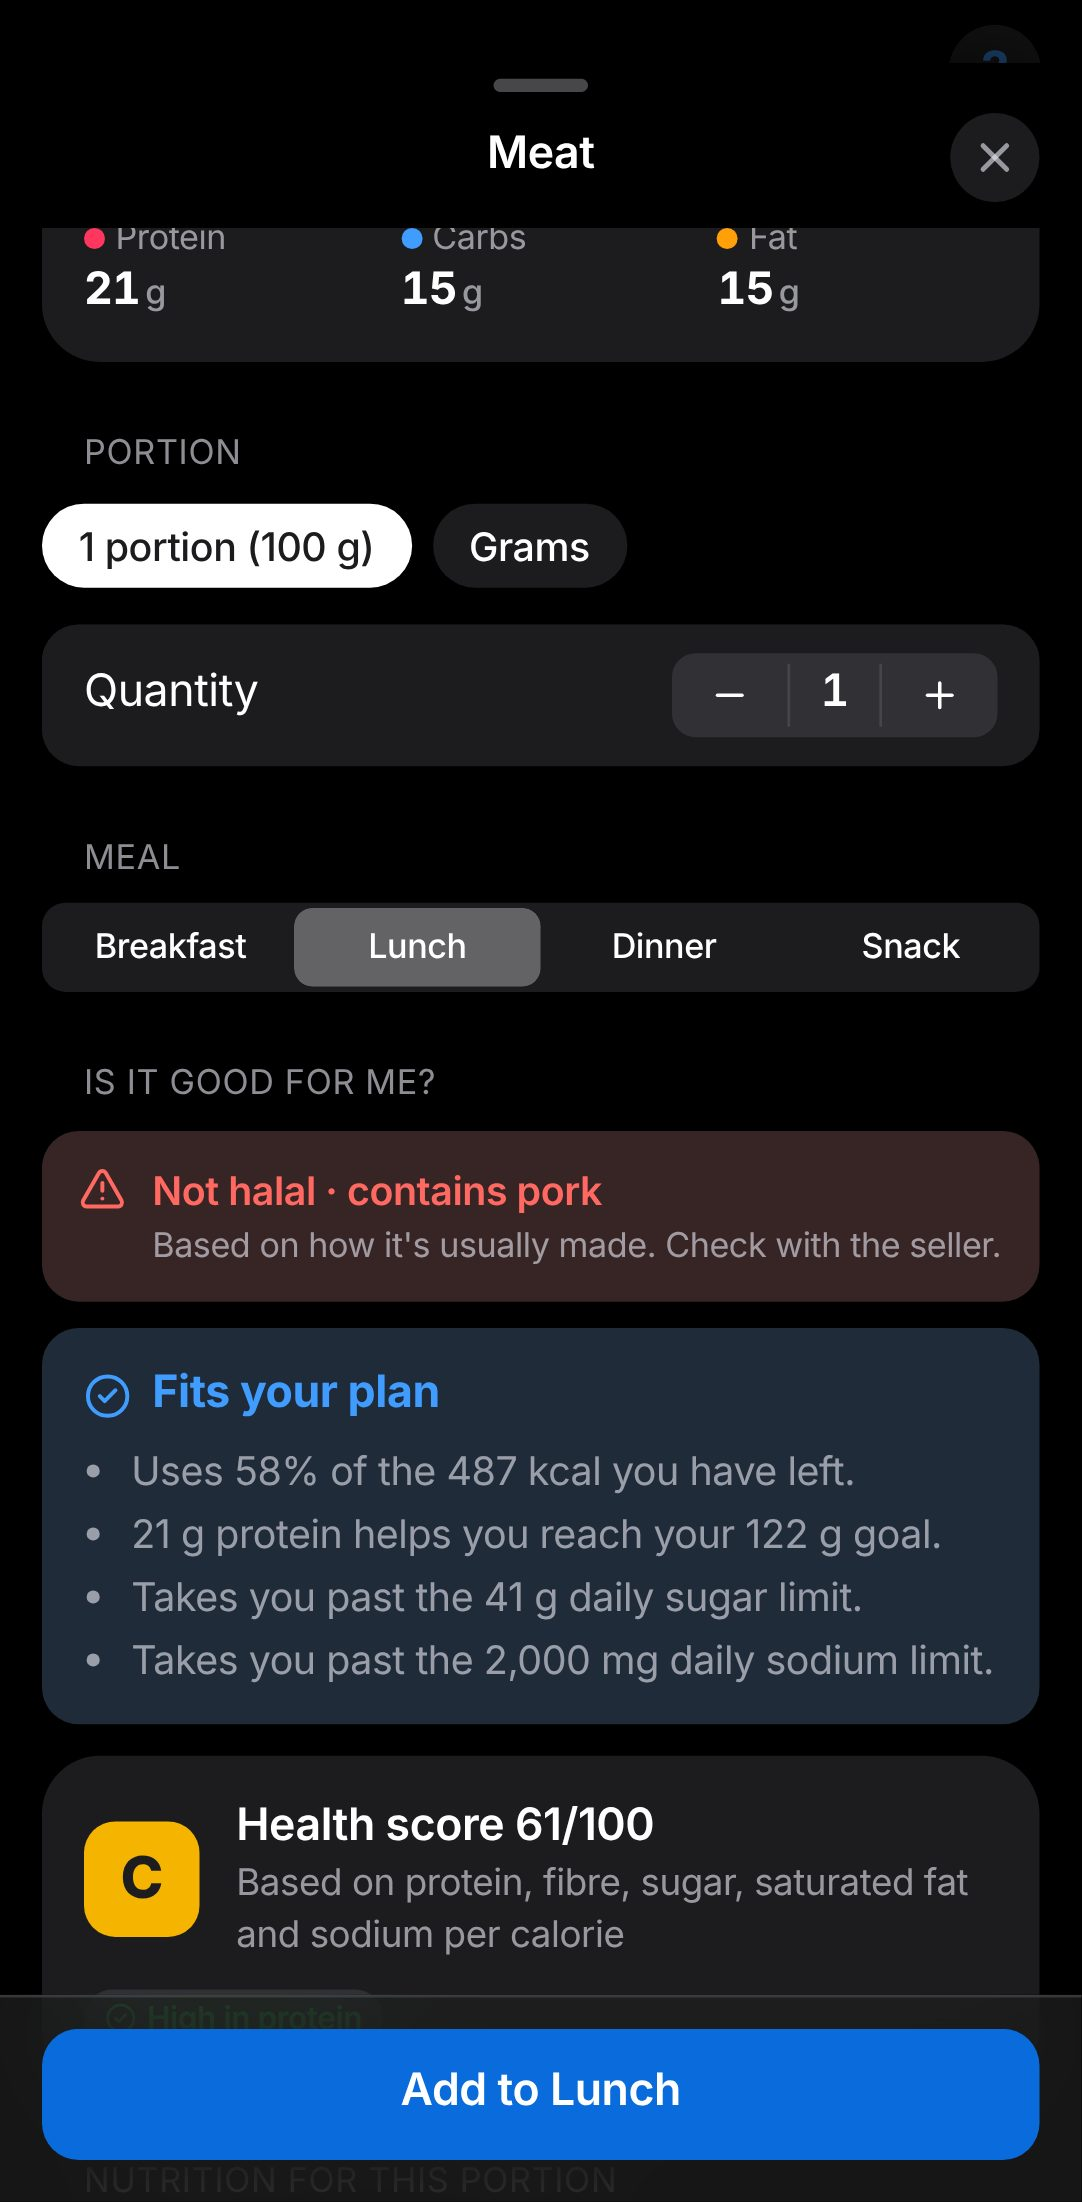
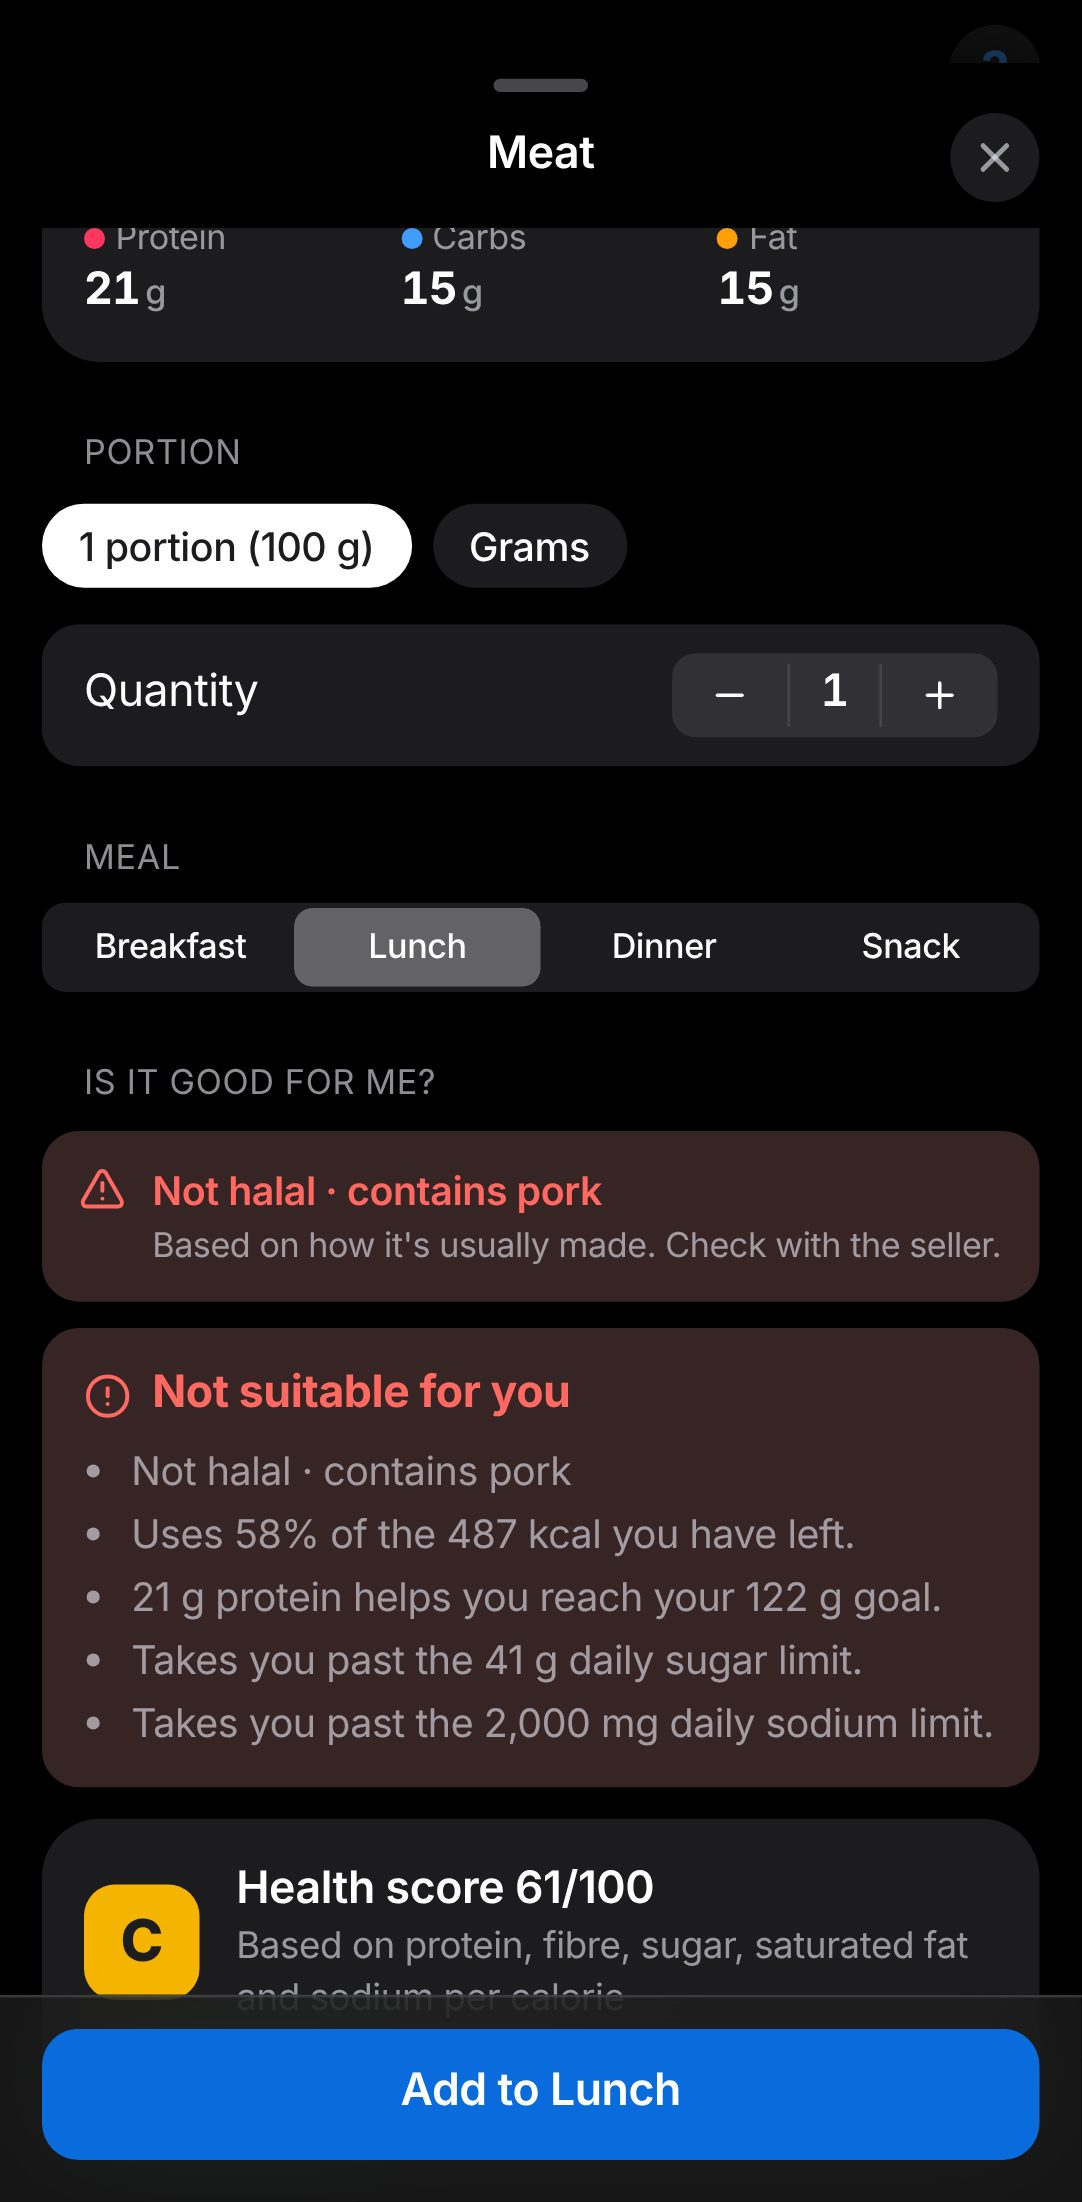
Food verdict agrees with allergy/halal warnings ('Not suitable for you')
Claude-Session: https://claude.ai/code/session_019NBcuk3pD24B8vpD58uY5d

Changed region(s): [[0.0305, 0.6176, 0.976, 0.9264]]

diff --git a/src/components/PhotoSheet.tsx b/src/components/PhotoSheet.tsx
@@ -8,7 +8,7 @@ import type { MealType, Nutrients } from "../lib/types";
 import { useTodayTotals } from "./FoodSheet";
 import { t, useLanguage } from "../i18n";
 import { AvoidCard, HealthCard, Segmented, Sheet, SuitabilityCard, haptic, showToast } from "./ui";
-import { conflicts, nameTags } from "../lib/allergens";
+import { conflicts, nameTags, withConflicts } from "../lib/allergens";
 
 interface Editable extends PhotoItem {
   baseGrams: number;
@@ -114,6 +114,7 @@ export function PhotoSheet({ open, onClose, start }: { open: boolean; onClose: (
   };
 
   const total = sum(items.map(itemNutrients));
+  const photoConflicts = result ? conflicts(new Set(items.flatMap((i) => [...nameTags(`${i.name} ${result.mealName}`)])), profile) : [];
   const tg = targets(profile);
 
   const addAll = () => {
@@ -254,8 +255,8 @@ export function PhotoSheet({ open, onClose, start }: { open: boolean; onClose: (
           {result.notes && <p className="footnote">{result.notes}</p>}
 
           <div className="section-header">{t("Is it good for me?")}</div>
-          <AvoidCard conflicts={conflicts(new Set(items.flatMap((i) => [...nameTags(`${i.name} ${result.mealName}`)])), profile)} />
-          <SuitabilityCard s={suitability(total, tg, eaten, profile.goal)} />
+          <AvoidCard conflicts={photoConflicts} />
+          <SuitabilityCard s={withConflicts(suitability(total, tg, eaten, profile.goal), photoConflicts)} />
           <div className="spacer" />
           <HealthCard report={healthReport(total)} />
 

diff --git a/src/components/FoodSheet.tsx b/src/components/FoodSheet.tsx
@@ -4,7 +4,7 @@ import type { RecipePart } from "../data/dishes";
 import { recipeTotals } from "../data/foods";
 import { FoodPicker } from "./MealBuilder";
 import { t, useLanguage } from "../i18n";
-import { foodConflicts } from "../lib/allergens";
+import { foodConflicts, withConflicts } from "../lib/allergens";
 import { defaultMeal, mealLabel, mealOptions } from "../lib/api";
 import {
   healthReport,
@@ -377,9 +377,7 @@ export function FoodSheet({
 
             <div className="section-header">{t("Is it good for me?")}</div>
             <AvoidCard conflicts={foodConflicts(food, profile)} />
-            <SuitabilityCard
-              s={suitability(n, tg, eaten, profile.goal, isWholeProduce(food))}
-            />
+            <SuitabilityCard s={withConflicts(suitability(n, tg, eaten, profile.goal, isWholeProduce(food)), foodConflicts(food, profile))} />
             <div className="spacer" />
             <HealthCard
               report={healthReport(n, { intrinsicSugar: isWholeProduce(food) })}

diff --git a/src/i18n/dict/core.ts b/src/i18n/dict/core.ts
@@ -3,6 +3,7 @@ import type { AreaDict } from "./index";
 // Translations for the core area. Keys are the exact English strings passed to t().
 export const CORE: AreaDict = {
   ms: {
+    "Not suitable for you": "Tidak sesuai untuk anda",
     "Scan meal with the camera": "Imbas hidangan dengan kamera",
     Camera: "Kamera",
     "Calories · Training · Fitness": "Kalori · Latihan · Kecergasan",
@@ -276,6 +277,7 @@ export const CORE: AreaDict = {
     "Weight from {from} kg on {d1} to {to} kg on {d2}": "Berat daripada {from} kg pada {d1} kepada {to} kg pada {d2}",
   },
   zh: {
+    "Not suitable for you": "不适合你",
     "Scan meal with the camera": "用相机扫描餐食",
     Camera: "相机",
     "Calories · Training · Fitness": "卡路里 · 训练 · 健身",

diff --git a/e2e/features.spec.ts b/e2e/features.spec.ts
@@ -72,6 +72,8 @@ test("Siti: halal, peanut allergy and Ramadan — warnings, filters, sahur/iftar
   await page.getByLabel("Search foods").fill("char siu");
   await page.locator(".row", { hasText: "Char siu (BBQ pork)" }).click();
   await expect(page.getByRole("dialog").getByRole("alert")).toContainText("Not halal · contains pork");
+  // The verdict agrees with the warning instead of calling it a good fit.
+  await expect(page.getByRole("dialog")).toContainText("Not suitable for you");
   await page.getByRole("dialog").getByRole("button", { name: "Close", exact: true }).click();
 
   // Plan: the sample day is sahur, iftar (with dates) and moreh, with nothing she avoids.

diff --git a/src/lib/allergens.ts b/src/lib/allergens.ts
@@ -145,3 +145,9 @@ export function foodConflicts(f: Food, p: Pick<Profile, "allergies" | "diet">) {
 export function hasRestrictions(p: Pick<Profile, "allergies" | "diet">) {
   return (p.allergies?.length ?? 0) > 0 || p.diet !== "anything";
 }
+
+/** A food that clashes with someone's allergies or diet is never "a great choice", whatever its numbers. */
+export function withConflicts<S extends { verdict: string; headline: string; reasons: string[] }>(s: S, found: Conflict[]): S {
+  if (!found.length) return s;
+  return { ...s, verdict: "avoid", headline: t("Not suitable for you"), reasons: [...found.map((c) => c.text), ...s.reasons] };
+}
